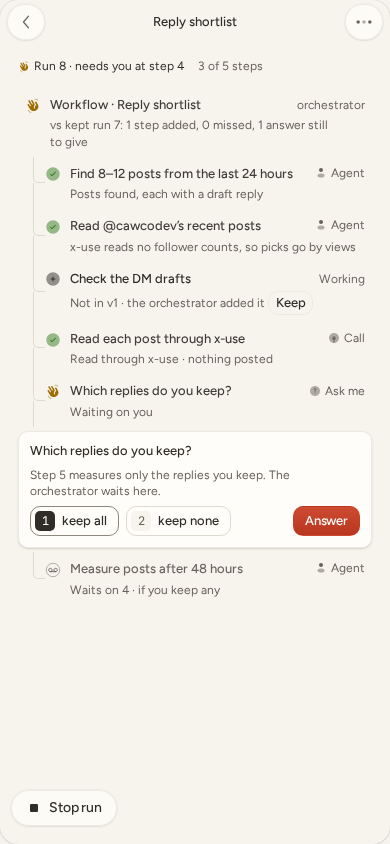
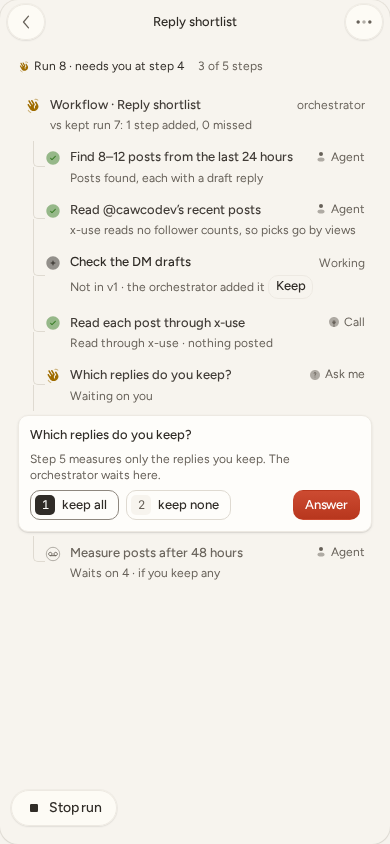
Workflows preview: the composer's send is never the coral, D's kept-run line fits one line
- A Split's composer send is secondary in every frame: each Split drawn
  here has its own one act (Answer, Keep as workflow), so D-create no
  longer shows the coral send beside it. The unused `asking` switch goes.
- D's "vs kept run 7" line on the run's root row says "1 step added, 0
  missed" and fits one line on the phone; the answer still to give is
  step 4's own row.

D-create-1440, D-run-1440 and D-run-390-1 are drawn again.

diff --git a/design-previews/workflows/parts.js b/design-previews/workflows/parts.js
@@ -303,7 +303,9 @@ export const desk = ({
 /**
  * A run opened in the Split beside the view. Its head is one row: the
  * workflow's name, then one glass group of bare symbols, Close last. What
- * the run is doing (`facts`) is content, drawn under the head.
+ * the run is doing (`facts`) is content, drawn under the head. Its composer's
+ * send is never the coral: the one act of every Split drawn here is the
+ * run's own (Answer, Keep as workflow).
  */
 export const splitPane = ({
   title = "",
@@ -311,11 +313,10 @@ export const splitPane = ({
   facts: list = [],
   acts = [],
   body,
-  asking = false,
 }) => `<aside class="split" aria-label="${esc(label)}">
   <header class="split-head">${title ? `<h4 class="trunc">${esc(title)}</h4>` : '<span class="grow"></span>'}${group([...acts, ["close", "Close"]])}</header>
   <div class="split-body">${list.length ? facts(list) : ""}${body}</div>
-  <div class="composer"><span>Message the orchestrator…</span>${btn("", { v: asking ? "secondary" : "primary", size: "sm", icon: "arrow" })}</div>
+  <div class="composer"><span>Message the orchestrator…</span>${btn("", { v: "secondary", size: "sm", icon: "arrow" })}</div>
 </aside>`;
 
 /* ---------------------------------------------------------- the phone */
@@ -355,7 +356,7 @@ export const liveFacts = (extra = []) => [
  */
 export const runTree = ({ ask = "", drift = false, stepsOf = STEPS, against = "" } = {}) => {
   const rows = [
-    `<div class="runrow"><span>${glyph("needs")}</span><span class="t">Workflow · ${WF}</span><span class="r">orchestrator</span>${against ? `<span class="d">${against}</span>` : ""}</div>`,
+    `<div class="runrow"><span>${glyph("needs")}</span><span class="t">Workflow · ${WF}</span><span class="r">orchestrator</span>${against ? `<span class="d vs">${against}</span>` : ""}</div>`,
   ];
   for (const s of stepsOf) {
     const r = RUN[s.n];

diff --git a/design-previews/workflows/opt-d.js b/design-previews/workflows/opt-d.js
@@ -120,7 +120,7 @@ const editPhone = () => [
 ];
 
 /** Run 8 beside the kept run, said on the run's own root row. */
-const against = `vs kept run ${KEPT_RUN}: 1 step added, 0 missed, 1 answer still to give`;
+const against = `vs kept run ${KEPT_RUN}: 1 step added, 0 missed`;
 
 const runDesk = () =>
   desk({
@@ -130,7 +130,6 @@ const runDesk = () =>
       title: "Reply shortlist",
       label: `Reply shortlist, run ${LIVE}`,
       facts: liveFacts(),
-      asking: true,
       acts: [["stop", "Stop run"]],
       body: runTree({ drift: true, ask: askTile(), against }),
     }),

diff --git a/design-previews/workflows/opt-b.js b/design-previews/workflows/opt-b.js
@@ -165,7 +165,6 @@ const runDesk = () =>
       title: "Reply shortlist",
       label: `Reply shortlist, run ${LIVE}`,
       facts: liveFacts(),
-      asking: true,
       acts: [["stop", "Stop run"]],
       body: `${runRows()}<div class="hr"></div><p class="meta">The checks score when the run ends.</p>`,
     }),

diff --git a/design-previews/workflows/opt-a.js b/design-previews/workflows/opt-a.js
@@ -101,7 +101,6 @@ const runSplit = () =>
     title: "Reply shortlist",
     label: `Reply shortlist, run ${LIVE}`,
     facts: liveFacts(),
-    asking: true,
     acts: [["stop", "Stop run"]],
     body: `${shapeView(PLAN, { lit: true, caption: "Lit by its work items", w: 150 })}${askTile()}`,
   });
